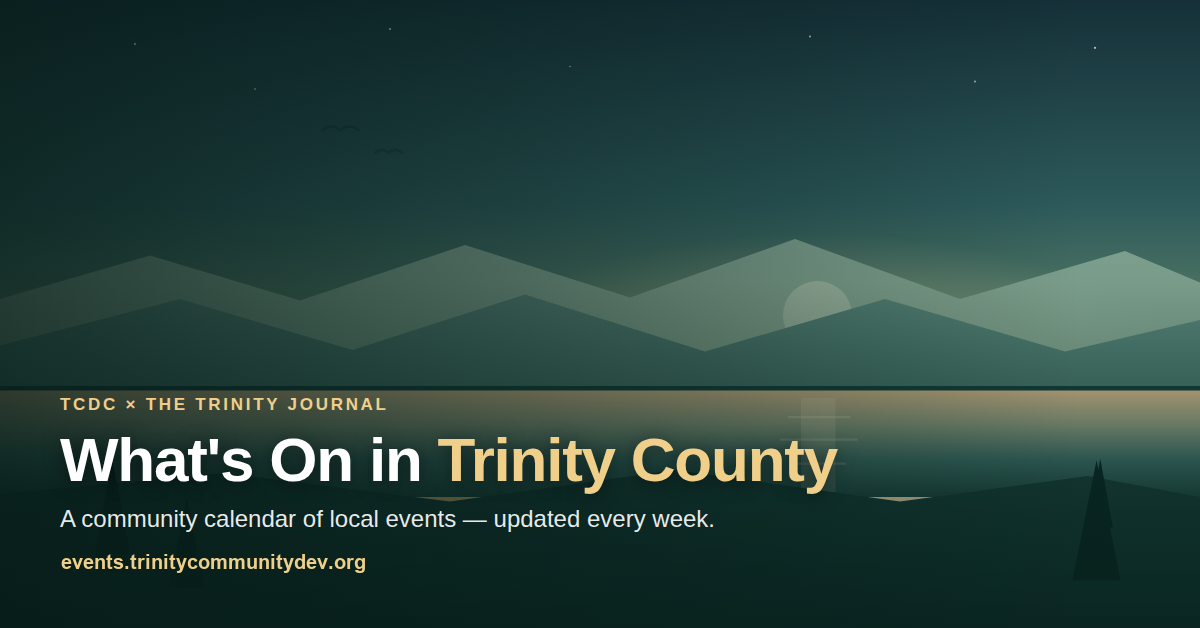
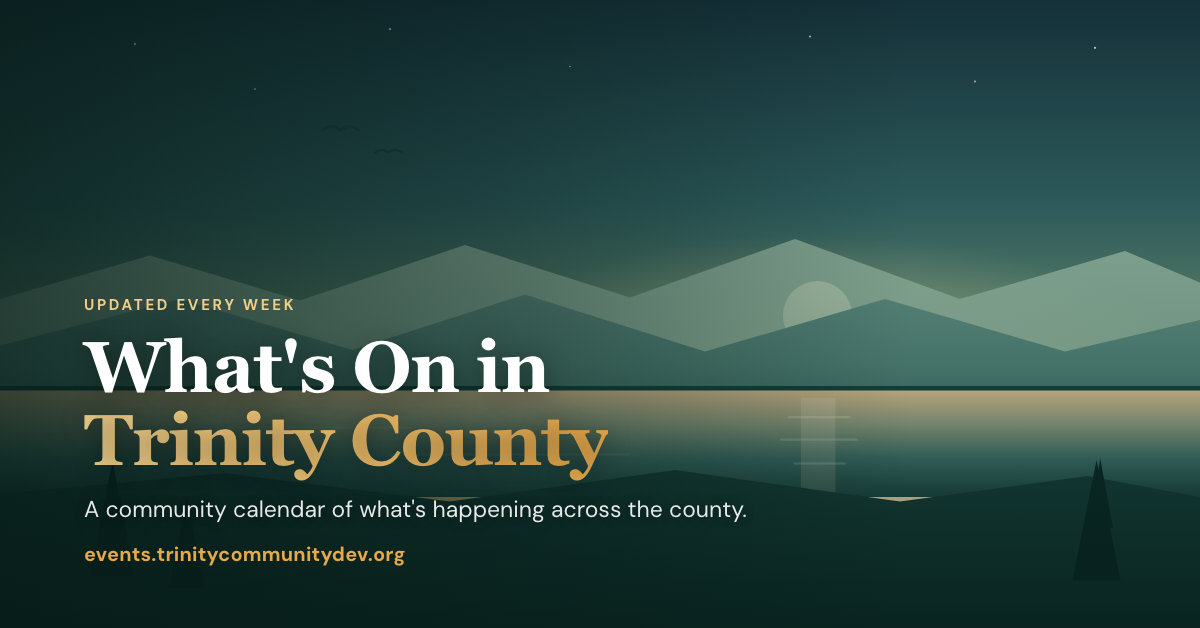
Share image: remake it from the current hero
The share image was from August, before the hero redesign: one-line sans
title and the old demo address. generator/make_og_image.py now renders it
from the live hero (same approach as the Resources Hub), with the buttons and
date row hidden and events.trinitycommunitydev.org under the subtitle.

Changed region(s): [[0.0308, 0.4538, 0.8633, 0.8471], [0.0308, 0.8774, 0.3392, 0.9076], [0.74, 0.7866, 0.7708, 0.8169]]

diff --git a/generator/make_og_image.py b/generator/make_og_image.py
@@ -1,0 +1,39 @@
+"""Render the share card (og-image.png) from the site's own hero.
+
+Same approach as the Community Resources Hub's build/make_og_image.py:
+nothing is drawn here that is not already on the page. The hero art, eyebrow,
+headline and subtitle are the live ones; the buttons and the date/count row are
+hidden and the site address is added under the subtitle. Rerun after a hero
+design change; the weekly build does not need it (it is evergreen).
+
+Run from the repo root:  python3 generator/make_og_image.py
+"""
+import pathlib
+from playwright.sync_api import sync_playwright
+
+ROOT = pathlib.Path(__file__).resolve().parent.parent
+PAGE = ROOT / "index.html"
+OUT = ROOT / "og-image.png"
+ADDRESS = "events.trinitycommunitydev.org"
+
+CSS = f"""
+header.nhero{{height:628px !important;min-height:628px !important}}
+header.nhero .nh-actions,header.nhero .meta-row{{display:none !important}}
+header.nhero .nh-content{{padding:0 84px 64px !important;max-width:none !important}}
+header.nhero .nh-eyebrow{{font-size:15px !important;letter-spacing:.18em !important}}
+header.nhero h1{{font-size:72px !important;line-height:1.02 !important}}
+header.nhero .nh-sub{{font-size:23px !important;max-width:760px !important;margin:0 !important}}
+header.nhero .nh-content::after{{content:"{ADDRESS}";display:block;margin-top:18px;
+  font:700 20px/1 'DM Sans',system-ui,sans-serif;color:#E7A94A;letter-spacing:.01em}}
+"""
+
+with sync_playwright() as p:
+    b = p.chromium.launch()
+    pg = b.new_page(viewport={"width": 1200, "height": 900}, device_scale_factor=1)
+    pg.goto(PAGE.as_uri(), wait_until="networkidle")
+    pg.add_style_tag(content=CSS)
+    pg.evaluate("document.fonts.ready")
+    pg.wait_for_timeout(500)
+    pg.locator("header.nhero").screenshot(path=str(OUT))
+    b.close()
+print(f"wrote {OUT} ({OUT.stat().st_size:,} bytes)")
